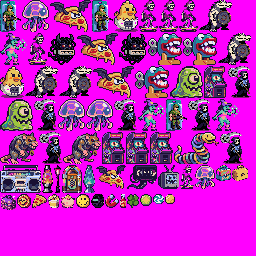
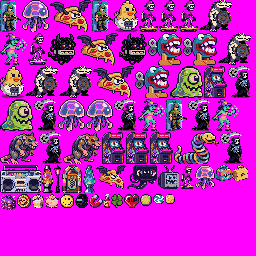
90s theme: 1UP heart replaces the pizza-slice health pickup; opening GIF
Pizza read as the pizza-bat enemies, so Floor Chicken is now a glossy 1UP
heart (picked from juice box / soda / PB&J / heart candidates at 14px).
New README clip: the first 11 s of Dairy Plant, recorded by
scenarios/show_opening.py (a director steering to a light source, its drop,
then the Armor stage item).

Claude-Session: https://claude.ai/code/session_015ibsHdqfeD7pBuanBpNYEB

Changed region(s): [[0.125, 0.75, 0.5625, 0.8125]]

diff --git a/scenarios/show_opening.py b/scenarios/show_opening.py
@@ -1,0 +1,51 @@
+"""Showcase: the first seconds of Dairy Plant, 90s theme (README footage).
+
+A small director replaces the autopilot's steering: whip the nearest starting
+light source, grab what it drops, then walk to the Armor stage item two
+tilesets northeast. Level-ups are still auto-picked by the autopilot.
+"""
+import math
+import os
+import sys
+
+sys.path.insert(0, os.path.join(os.path.dirname(__file__), ".."))
+import main
+
+
+def director(self):
+    p = self.p
+    if self.t < 20:
+        return 0.0, 0.0
+    lights = [e for e in self.enemies if e.prop and not e.dead]
+    drops = [it for it in self.pickups if it.kind not in ("gem", "chest") and not it.kind.startswith("item:")]
+    items = [it for it in self.pickups if it.kind == "item:armor"]
+    if drops:
+        tx, ty = min(((it.x, it.y) for it in drops), key=lambda q: math.dist(q, (p.x, p.y)))
+    elif lights and not getattr(self, "broke", False):
+        e = min(lights, key=lambda e: math.dist((e.x, e.y), (p.x, p.y)))
+        tx, ty = e.x - 40, e.y  # stand left of it so the Whip's slash lands
+        if math.dist((tx, ty), (p.x, p.y)) < 6:
+            p.face_x = 1
+            return 0.0, 0.0
+    elif items:
+        tx, ty = items[0].x, items[0].y
+    else:
+        return 0.0, 0.0
+    dx, dy = tx - p.x, ty - p.y
+    d = math.hypot(dx, dy) or 1
+    return dx / d, dy / d
+
+
+_collect = main.App.collect
+
+
+def collect(self, it):
+    if it.kind != "gem":
+        self.broke = True
+        self.first_drop = getattr(self, "first_drop", None) or it.kind
+    _collect(self, it)
+
+
+main.App.autopilot = director
+main.App.collect = collect
+main.App({"char": 0, "stage": "dairy_plant", "art": "90s", "god": True, "autopilot": True})

diff --git a/tools/sprite_gen/build_theme.py b/tools/sprite_gen/build_theme.py
@@ -69,8 +69,9 @@ FAMILY = [
 DEFAULT_MONSTER = "mon_toxic_ooze"
 
 PICKUPS = {k: f"pk_{k}" for k in (
-    "gem", "gem_green", "gem_red", "chicken", "coin", "coinbag", "richbag", "rosary",
+    "gem", "gem_green", "gem_red", "coin", "coinbag", "richbag", "rosary",
     "clock", "vacuum", "nduja", "clover", "chest", "chest_evo", "chest_arcana")}
+PICKUPS["chicken"] = "pk_heart"  # healing is a 1UP heart: pizza would read as the pizza-bat enemies
 LIGHTS = {"brazier": "lt_boombox", "candelabrone": "lt_lavalamp", "lampost": "lt_neonpost",
           "lantern": "lt_jukebox", "blue_brazier": "lt_bluelamp"}
 PICKUP_H = {"gem": 10, "gem_green": 12, "gem_red": 14, "coin": 10, "chest": 16,

diff --git a/README.md b/README.md
@@ -57,6 +57,8 @@ Weapons fire on their own. Your job is to move, choose upgrades, and stay alive 
 - ⚔ **The real Vampire Survivors rules.** Weapon stats, per-level gains, evolutions,
   minute-by-minute wave tables, bosses, map events and chest odds all come straight from the
   community wiki.
+- 🗺 **Loot on the map, like the original.** Every stage has its wiki stage items (passives
+  lying at fixed spots) and light sources that drop 1UP hearts, coins, Rosaries and more.
 - 🃏 **All 22 Arcanas**, 50 weapons (28 base + 22 evolutions and unions), 24 passive items,
   and light sources with the real drop table.
 - 🖥 **Runs anywhere Python does.** It renders at 480×270 and 30 fps, with no engine install
@@ -72,6 +74,13 @@ Weapons fire on their own. Your job is to move, choose upgrades, and stay alive 
 <td align="center"><sub>Survive to 30:00 and <b>The Late Fee</b> comes to collect</sub></td>
 </tr>
 </table>
+
+<div align="center">
+<img src="docs/media/opening.gif" alt="The first seconds of Dairy Plant: outrunning the sewer-gator horde and grabbing the Armor stage item" width="80%">
+<br>
+<sub>The first 11 seconds of Dairy Plant: break a light source for a <b>1UP heart</b>, outrun the
+sewer-gator horde, and pick up the <b>Armor</b> lying two tilesets northeast.</sub>
+</div>
 
 ## Five stages
 
